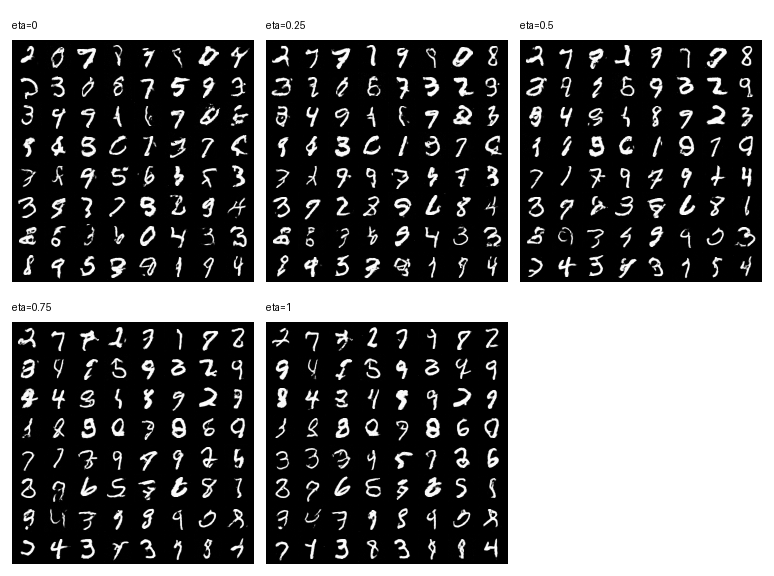
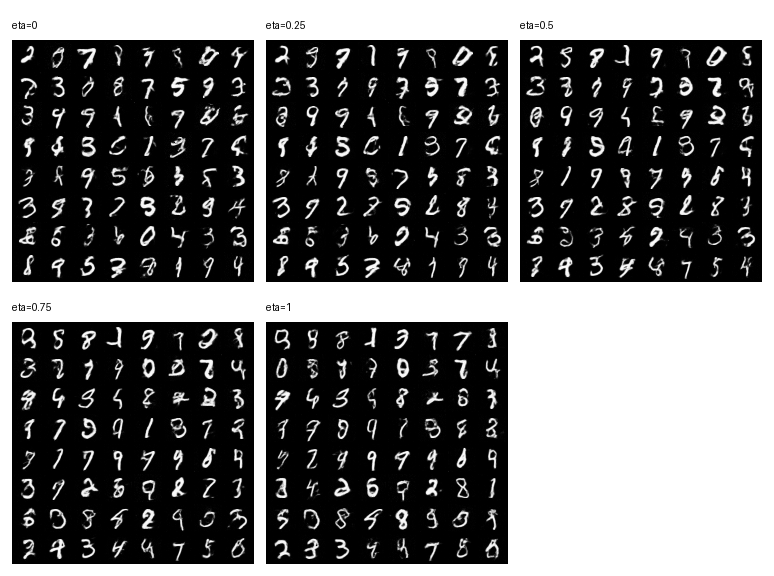
more exp

diff --git a/sample.py b/sample.py
@@ -120,8 +120,6 @@ def main():
         parser.error("--eta must be non-negative")
     if args.eta != 0 and not args.ddim:
         parser.error("--eta only applies when --ddim is set")
-    if args.interpolation and not args.ddim:
-        parser.error("--interpolation requires --ddim")
     if args.animation_seconds <= 0:
         parser.error("--animation-seconds must be greater than 0")
 

diff --git a/README.md b/README.md
@@ -128,7 +128,7 @@ in the checkpoint. It respaces either the DDPM or DDIM sampling schedule.
 Increasing `--eta` makes DDIM stochastic, while `0` uses its deterministic
 update.
 
-To compare DDIM latent endpoints with their linear midpoint interpolations:
+To compare latent endpoints with their linear midpoint interpolations:
 
 ```bash
 python sample.py --ddim --num-steps 50 --interpolation \
@@ -198,51 +198,62 @@ python combine_results.py --columns 2 \
   --output ddim_vs_ddpm/comparisons/ddpm_vs_ddim_10_steps.png
 ```
 
-Compare DDIM stochasticity at 10 steps:
+Compare DDIM stochasticity at 5 steps:
 
 ```bash
 for eta in 0 0.25 0.5 0.75 1; do
   python sample.py --checkpoint checkpoints/mnist_ddpm.pt --num-images 64 \
-    --ddim --num-steps 10 --eta "$eta" --seed 2026 \
-    --out-dir "ddim_vs_ddpm/ddim_10_steps_eta_${eta}"
+    --ddim --num-steps 5 --eta "$eta" --seed 2026 \
+    --out-dir "ddim_vs_ddpm/ddim_5_steps_eta_${eta}"
 done
 python combine_results.py --columns 3 \
-  --item "eta=0=ddim_vs_ddpm/ddim_10_steps_eta_0/grid.png" \
-  --item "eta=0.25=ddim_vs_ddpm/ddim_10_steps_eta_0.25/grid.png" \
-  --item "eta=0.5=ddim_vs_ddpm/ddim_10_steps_eta_0.5/grid.png" \
-  --item "eta=0.75=ddim_vs_ddpm/ddim_10_steps_eta_0.75/grid.png" \
-  --item "eta=1=ddim_vs_ddpm/ddim_10_steps_eta_1/grid.png" \
+  --item "eta=0=ddim_vs_ddpm/ddim_5_steps_eta_0/grid.png" \
+  --item "eta=0.25=ddim_vs_ddpm/ddim_5_steps_eta_0.25/grid.png" \
+  --item "eta=0.5=ddim_vs_ddpm/ddim_5_steps_eta_0.5/grid.png" \
+  --item "eta=0.75=ddim_vs_ddpm/ddim_5_steps_eta_0.75/grid.png" \
+  --item "eta=1=ddim_vs_ddpm/ddim_5_steps_eta_1/grid.png" \
   --output ddim_vs_ddpm/comparisons/ddim_eta.png
 ```
 
-Compare deterministic DDIM across inference step counts:
+Compare stochastic DDPM and deterministic DDIM across inference step counts.
+The combined image places DDPM on the left and DDIM on the right for each step
+count:
 
 ```bash
 for steps in 10 50 100 250 500 1000; do
   python sample.py --checkpoint checkpoints/mnist_ddpm.pt --num-images 64 \
+    --num-steps "$steps" --seed 2026 \
+    --out-dir "ddim_vs_ddpm/ddpm_${steps}_steps"
+  python sample.py --checkpoint checkpoints/mnist_ddpm.pt --num-images 64 \
     --ddim --num-steps "$steps" --eta 0 --seed 2026 \
     --out-dir "ddim_vs_ddpm/ddim_${steps}_steps_eta_0"
 done
-python combine_results.py --columns 3 \
-  --item "10 steps=ddim_vs_ddpm/ddim_10_steps_eta_0/grid.png" \
-  --item "50 steps=ddim_vs_ddpm/ddim_50_steps_eta_0/grid.png" \
-  --item "100 steps=ddim_vs_ddpm/ddim_100_steps_eta_0/grid.png" \
-  --item "250 steps=ddim_vs_ddpm/ddim_250_steps_eta_0/grid.png" \
-  --item "500 steps=ddim_vs_ddpm/ddim_500_steps_eta_0/grid.png" \
-  --item "1000 steps=ddim_vs_ddpm/ddim_1000_steps_eta_0/grid.png" \
-  --output ddim_vs_ddpm/comparisons/ddim_steps.png
+items=()
+for steps in 10 50 100 250 500 1000; do
+  items+=(
+    --item "$steps-step DDPM=ddim_vs_ddpm/ddpm_${steps}_steps/grid.png"
+    --item "$steps-step DDIM=ddim_vs_ddpm/ddim_${steps}_steps_eta_0/grid.png"
+  )
+done
+python combine_results.py --columns 2 "${items[@]}" \
+  --output ddim_vs_ddpm/comparisons/ddpm_vs_ddim_steps.png
 ```
 
-Generate an unconditional interpolation strip from two random latents and
-their midpoint:
+Generate matching unconditional interpolation grids with DDPM and DDIM, then
+combine them for comparison. The shared seed gives both samplers the same
+latent endpoint pairs:
 
 ```bash
+python sample.py --checkpoint checkpoints/mnist_ddpm.pt \
+  --num-steps 10 --interpolation --num-interpolations 12 --seed 2026 \
+  --out-dir ddim_vs_ddpm/ddpm_interpolation_10_steps
 python sample.py --checkpoint checkpoints/mnist_ddpm.pt --ddim \
   --num-steps 10 --eta 0 --interpolation --num-interpolations 12 --seed 2026 \
   --out-dir ddim_vs_ddpm/ddim_interpolation_10_steps
-python combine_results.py --columns 1 \
-  --item "Rows: endpoint 1, endpoint 2, midpoint=ddim_vs_ddpm/ddim_interpolation_10_steps/grid.png" \
-  --output ddim_vs_ddpm/comparisons/ddim_interpolation.png
+python combine_results.py --columns 2 \
+  --item "10-step DDPM; rows: endpoint 1, endpoint 2, midpoint=ddim_vs_ddpm/ddpm_interpolation_10_steps/grid.png" \
+  --item "10-step DDIM; rows: endpoint 1, endpoint 2, midpoint=ddim_vs_ddpm/ddim_interpolation_10_steps/grid.png" \
+  --output ddim_vs_ddpm/comparisons/ddpm_vs_ddim_interpolation.png
 ```
 
 No `--labels` argument is passed in these experiments, so the checkpoint's
